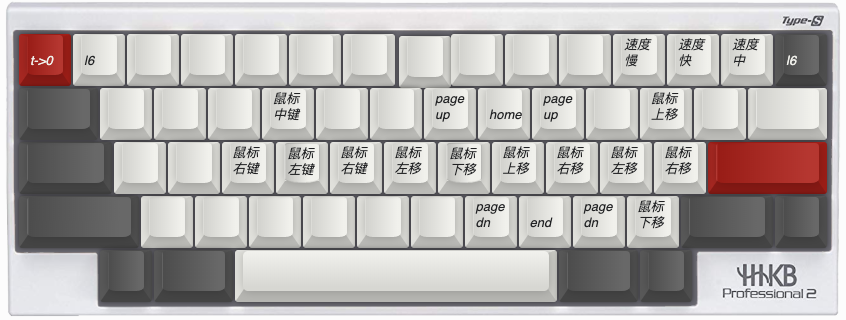
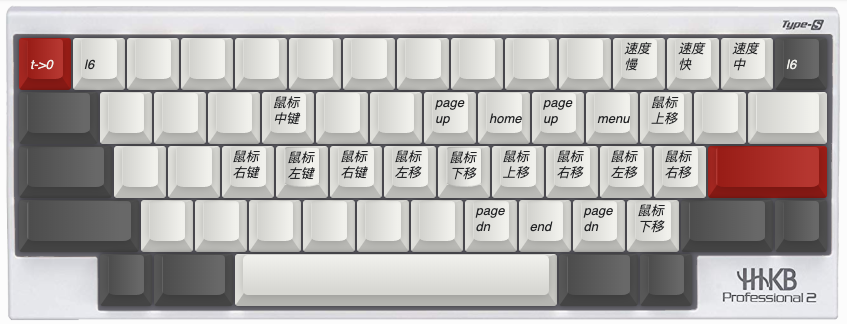
优化: 长按1 模拟鼠标基操作时, 提供PgUp/PgDown Home/End按键.

diff --git a/ydkb/README.md b/ydkb/README.md
@@ -94,4 +94,4 @@ Mac上操作需要按以下流程：
 
 - 2020/1/4 支持鼠标层：http://mrw.so/4WyKfp
 - 2020/1/4 使用layer5: http://mrw.so/4zg9WJ
-- 2020/1/5 优化layer5: http://mrw.so/5aRCDp
+- 2020/1/5 优化layer5: http://mrw.so/4rKm4s
